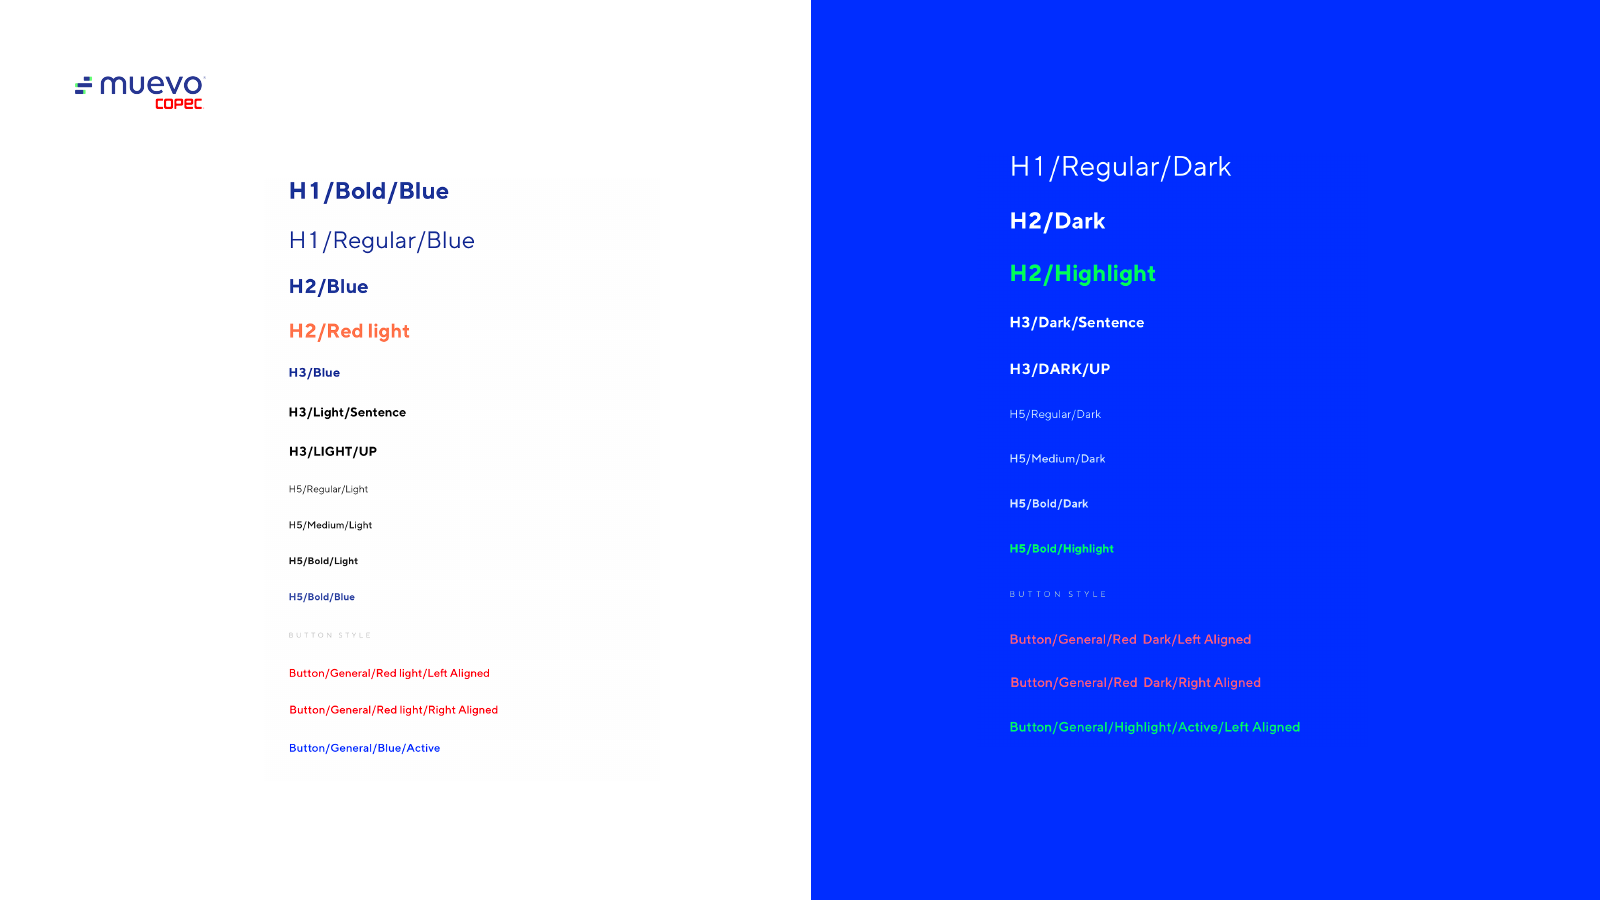
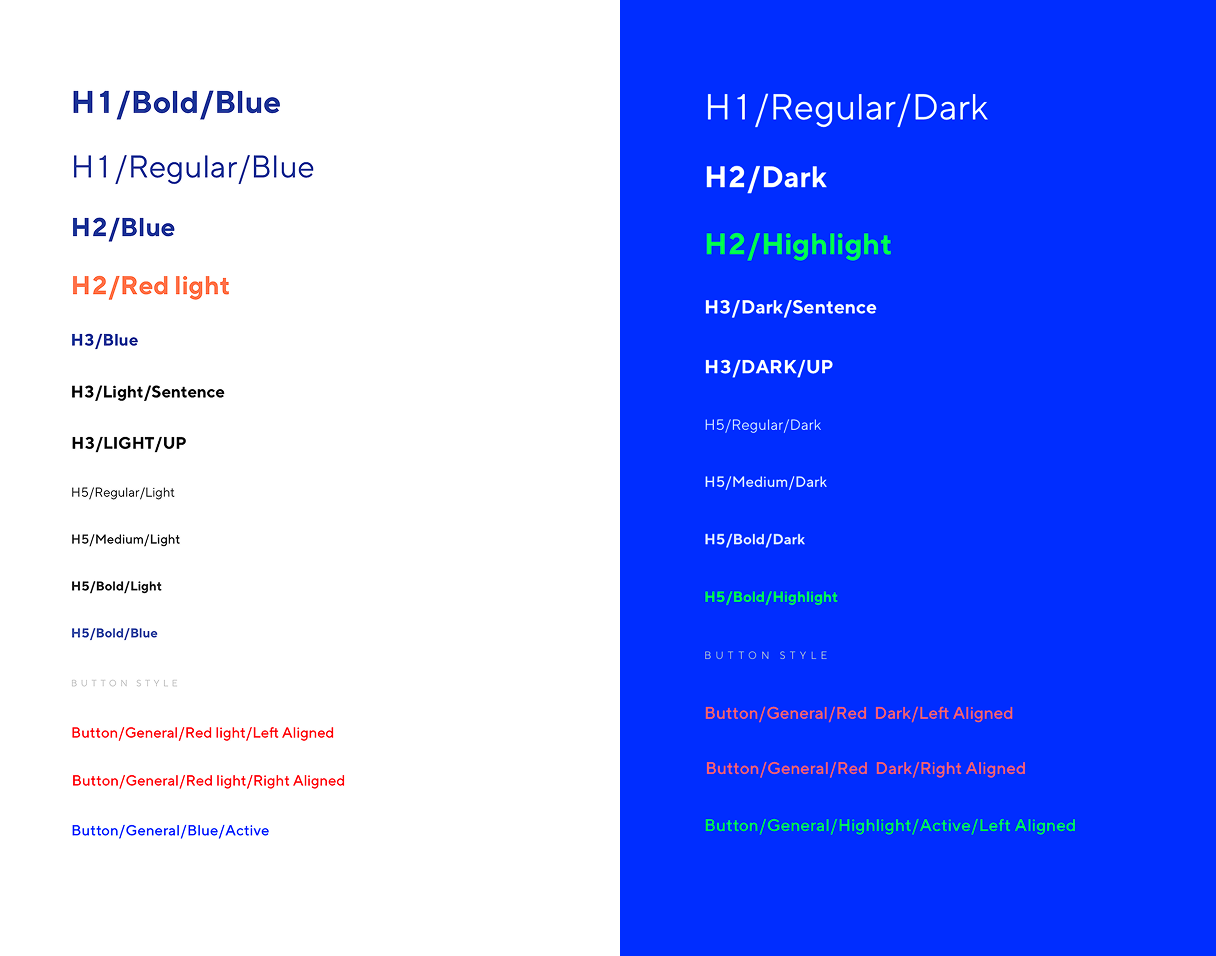
Refresh Copec design-system library images, drop watermark-hide hack
- Replace the typography, color/accessibility and button-states shots
  in the "design system" section with new light+dark exports,
  composited side by side to match the existing block-components card.
- Remove the .copec-system-crop::after white-box overlay entirely —
  it existed to paint over a small Muevo logo baked into the old
  source images, but none of the four current images (type, color,
  buttons, blocks) carry that watermark anymore, so the box was just
  covering real content in the corner of each card instead.
- Drop a handful of design-system images no longer referenced by the
  current CopecProject component (design-system-overview,
  ecosystem-journey, outdoor-campaign, web-experience).

Verified on both desktop and mobile: all four library cards render
full-bleed with no white box artifacts.

diff --git a/src/components/CopecProject.css b/src/components/CopecProject.css
@@ -327,19 +327,6 @@
   aspect-ratio: 1.38 / 1;
 }
 
-/* Hide the small source Muevo logo without editing the original image. */
-.copec-system-crop::after {
-  content: "";
-  position: absolute;
-  z-index: 2;
-  top: 0;
-  left: 0;
-  width: 20%;
-  height: 16%;
-  background: #fff;
-  pointer-events: none;
-}
-
 .copec-system-crop img {
   position: absolute;
   inset: 0;
@@ -621,11 +608,6 @@
   .copec-system-crop,
   .copec-system-item-wide .copec-system-crop {
     aspect-ratio: 1.28 / 1;
-  }
-
-  .copec-system-crop::after {
-    width: 24%;
-    height: 17%;
   }
 
   .copec-system-crop img,
